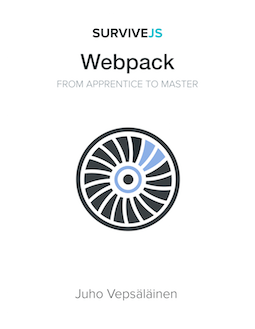
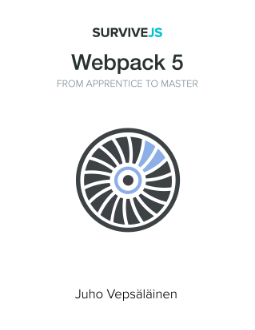
chore: Update title page

diff --git a/README.md b/README.md
@@ -2,7 +2,7 @@
 
 # SurviveJS - Webpack
 
-<img align="right" width="255" height="329" src="manuscript/images/title_page_small.png" />
+<img align="right" width="255" height="330" src="manuscript/images/title_page_small.png" />
 
 > **IMPORTANT!** If you want to support the development of this book, you can [purchase a copy at Leanpub](https://leanpub.com/survivejs-webpack). A part (~30%) of the proceedings will go directly to the author of webpack to support its development.
 
